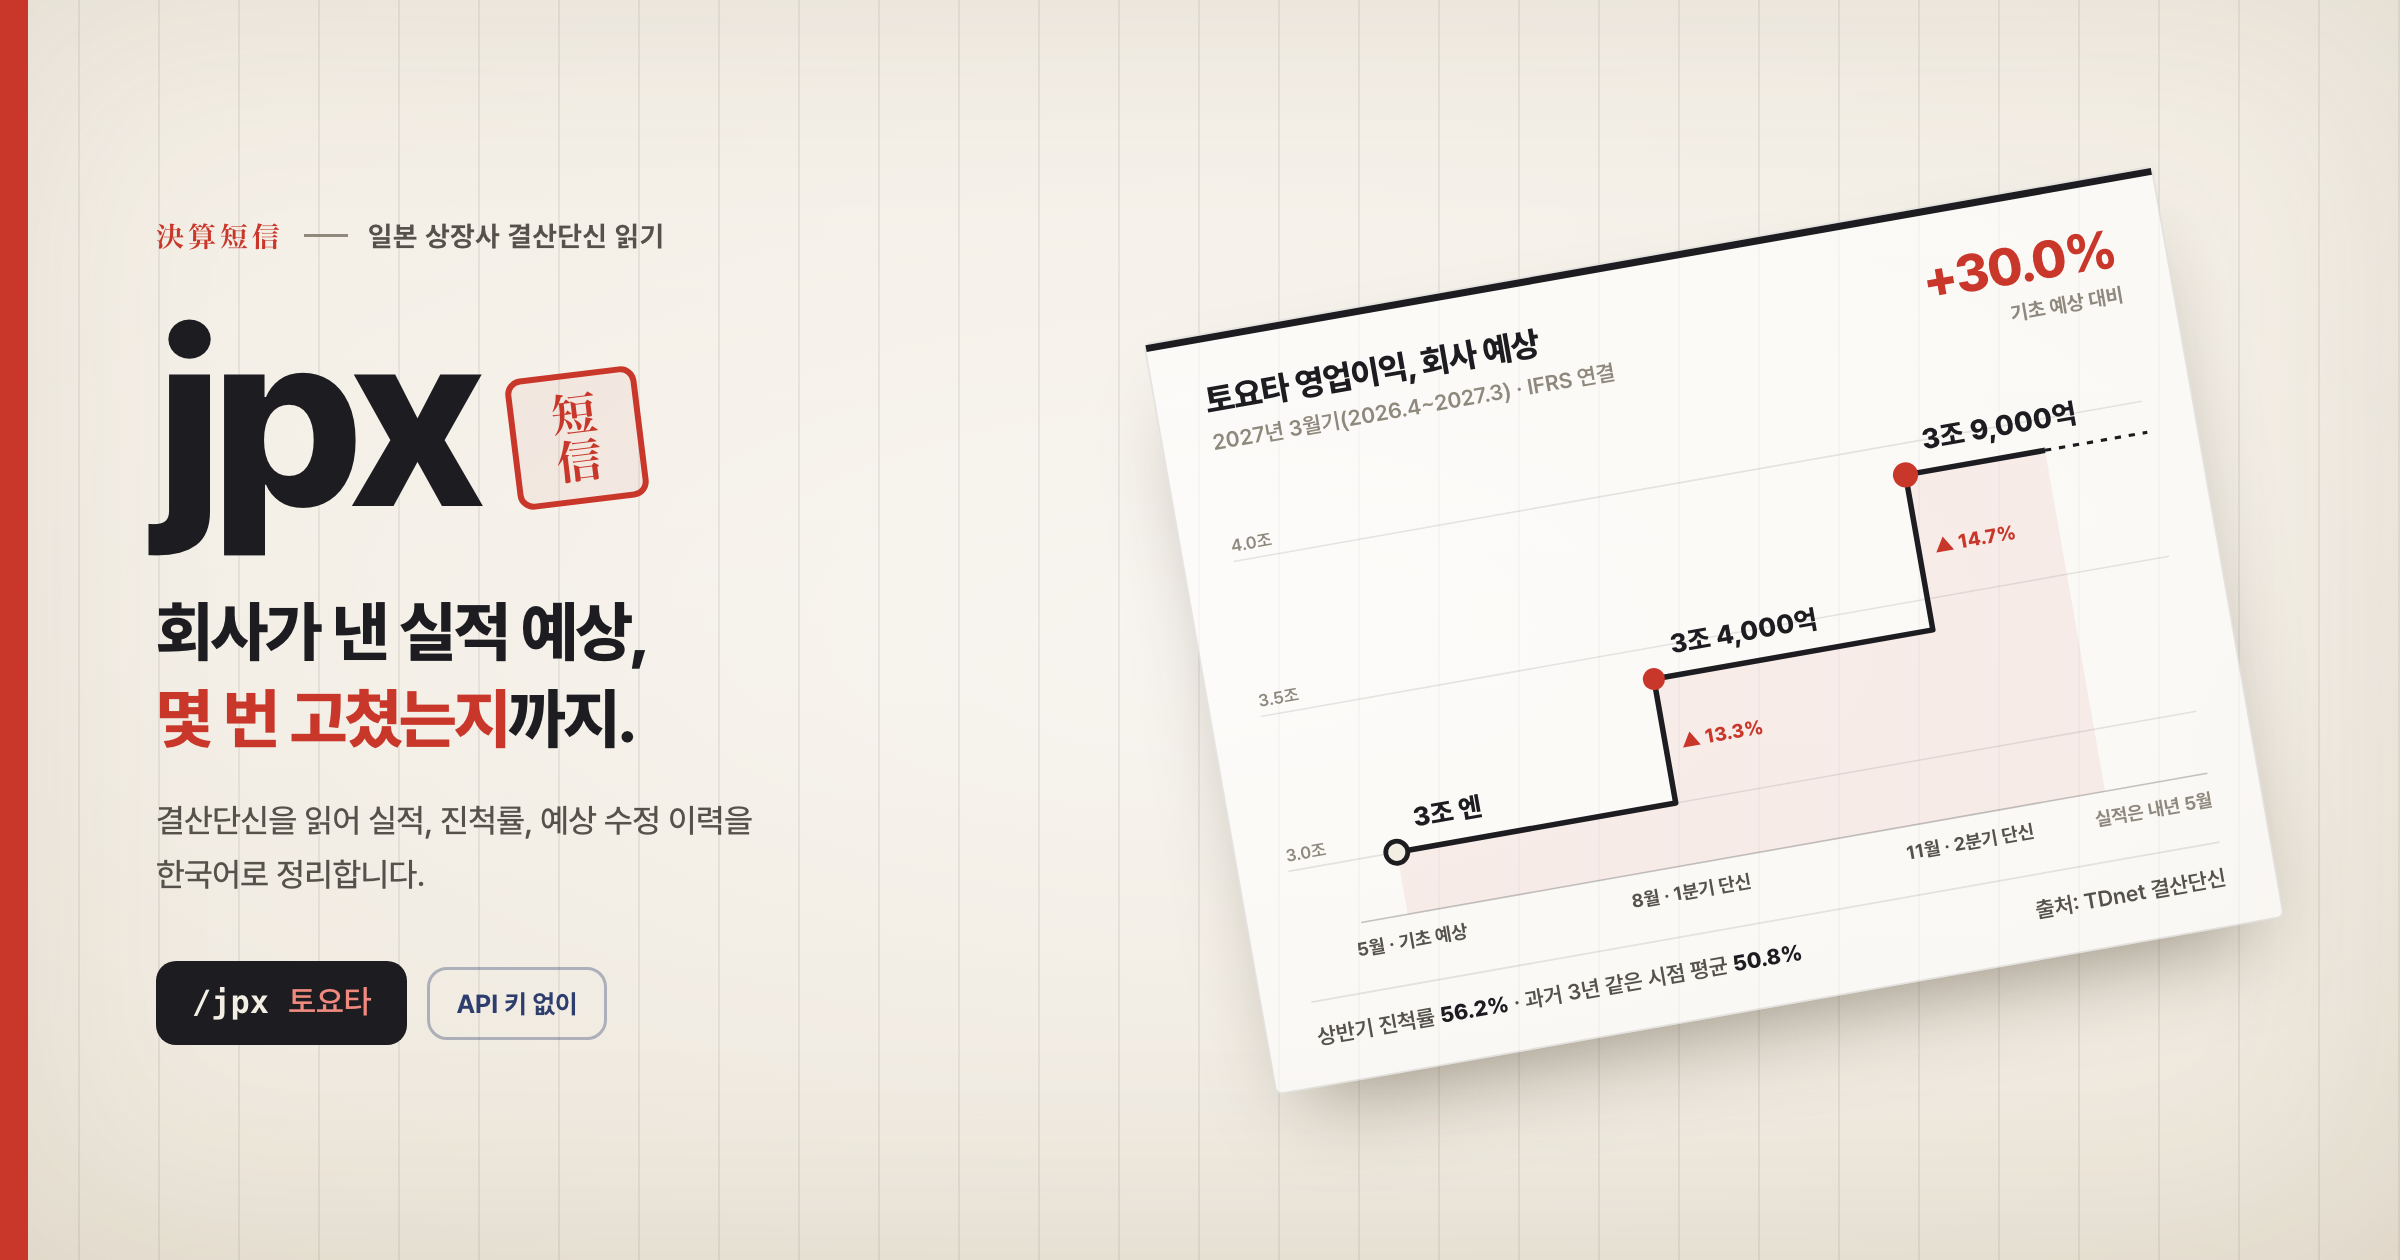
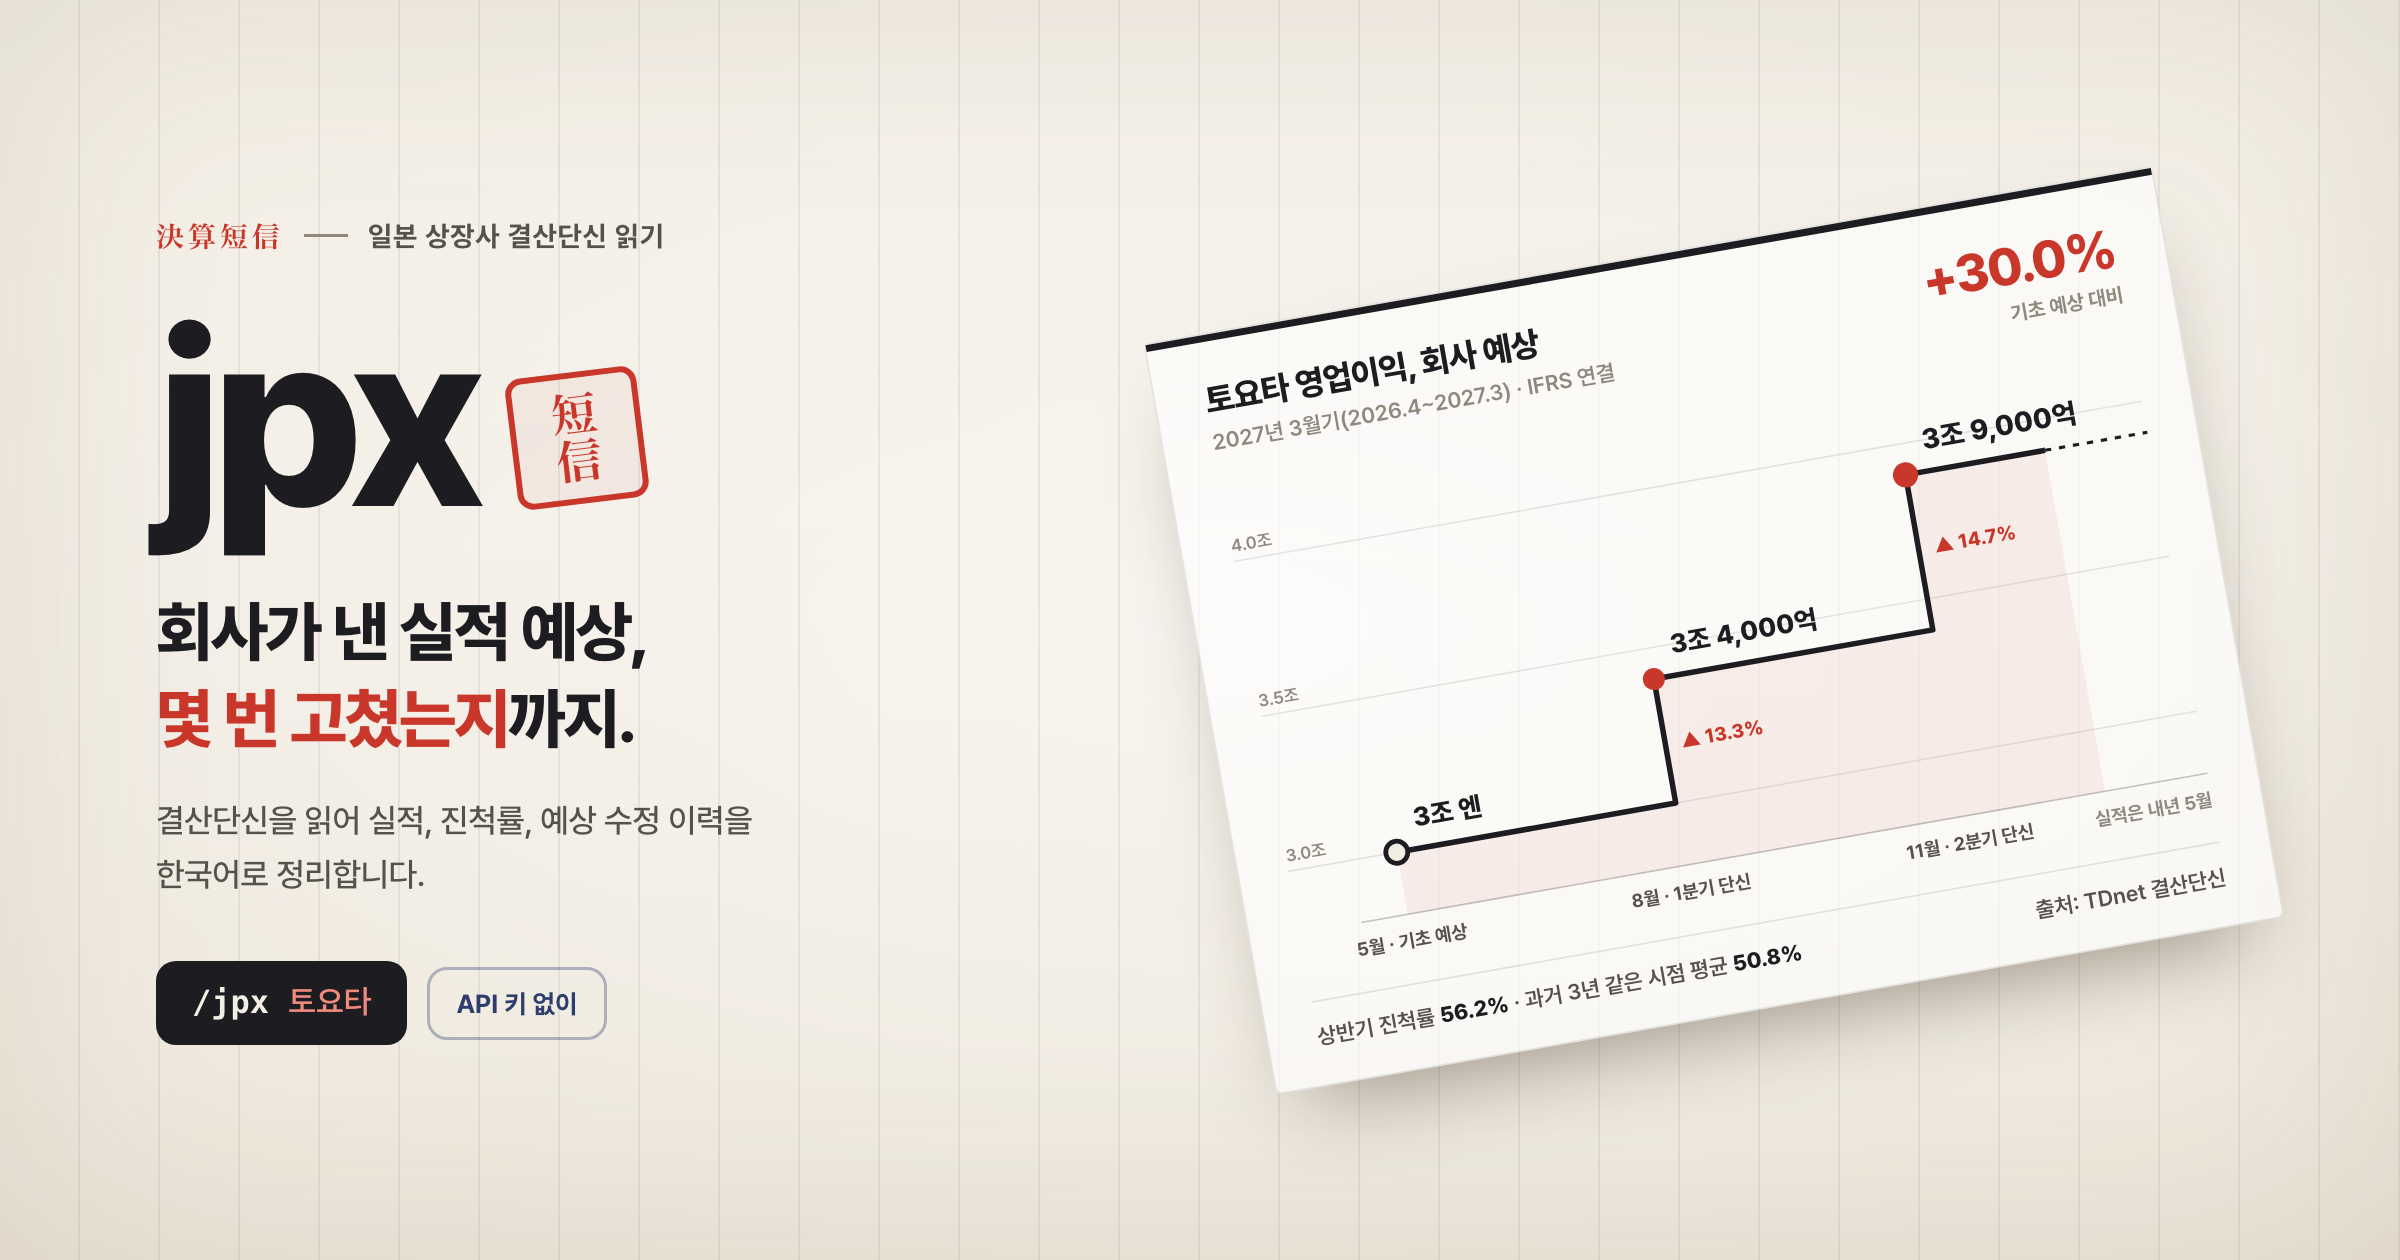
style: 썸네일 왼쪽 주홍 띠 삭제

Changed region(s): [[0.0, 0.0, 0.0312, 1.0]]

diff --git a/assets/thumbnail.html b/assets/thumbnail.html
@@ -26,7 +26,6 @@
       linear-gradient(180deg, var(--paper) 0%, var(--paper2) 100%);
   }
   .edge { position:absolute; inset:0; box-shadow:inset 0 0 120px rgba(90,70,40,.10); }
-  .band { position:absolute; left:0; top:0; bottom:0; width:14px; background:var(--shu); }
 
   .stage { position:relative; height:100%; display:grid; grid-template-columns:450px 1fr; gap:38px; padding:0 52px 0 78px; align-items:center; }
 
@@ -71,7 +70,6 @@
 <body>
   <div class="paper"></div>
   <div class="edge"></div>
-  <div class="band"></div>
 
   <div class="stage">
     <div>
